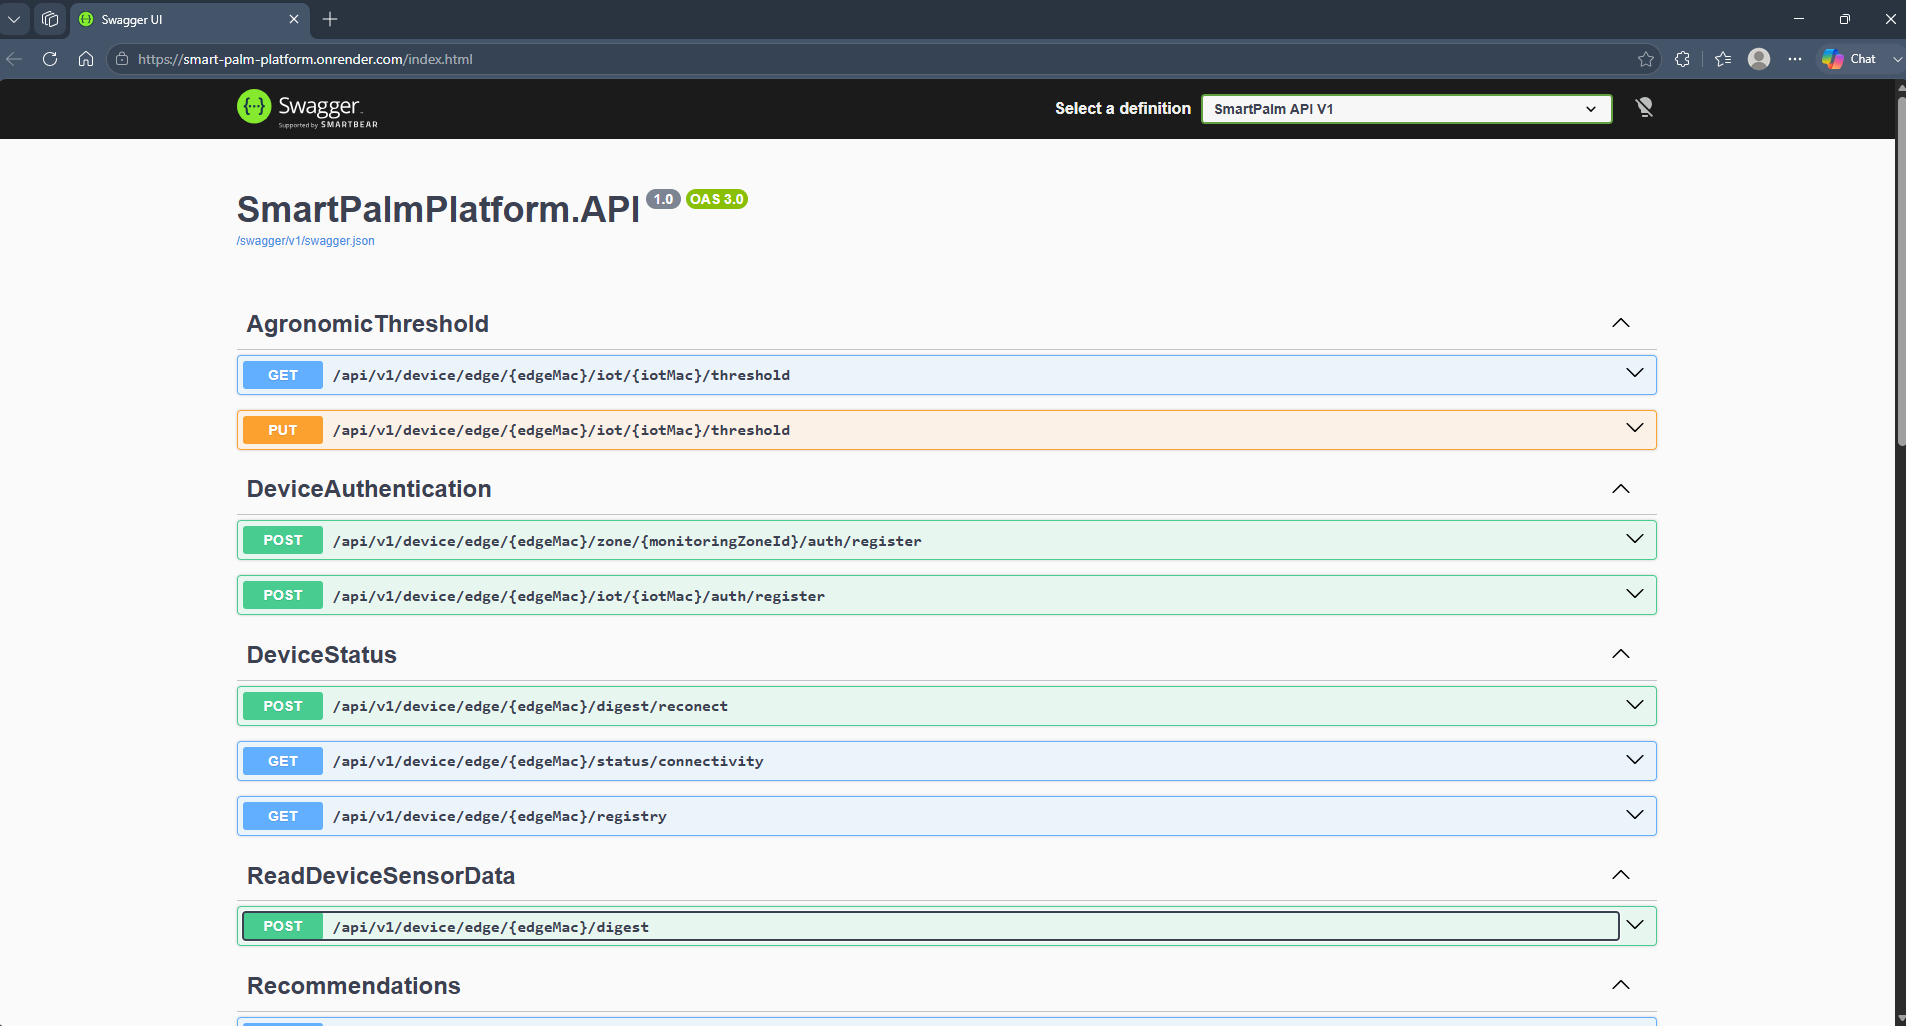
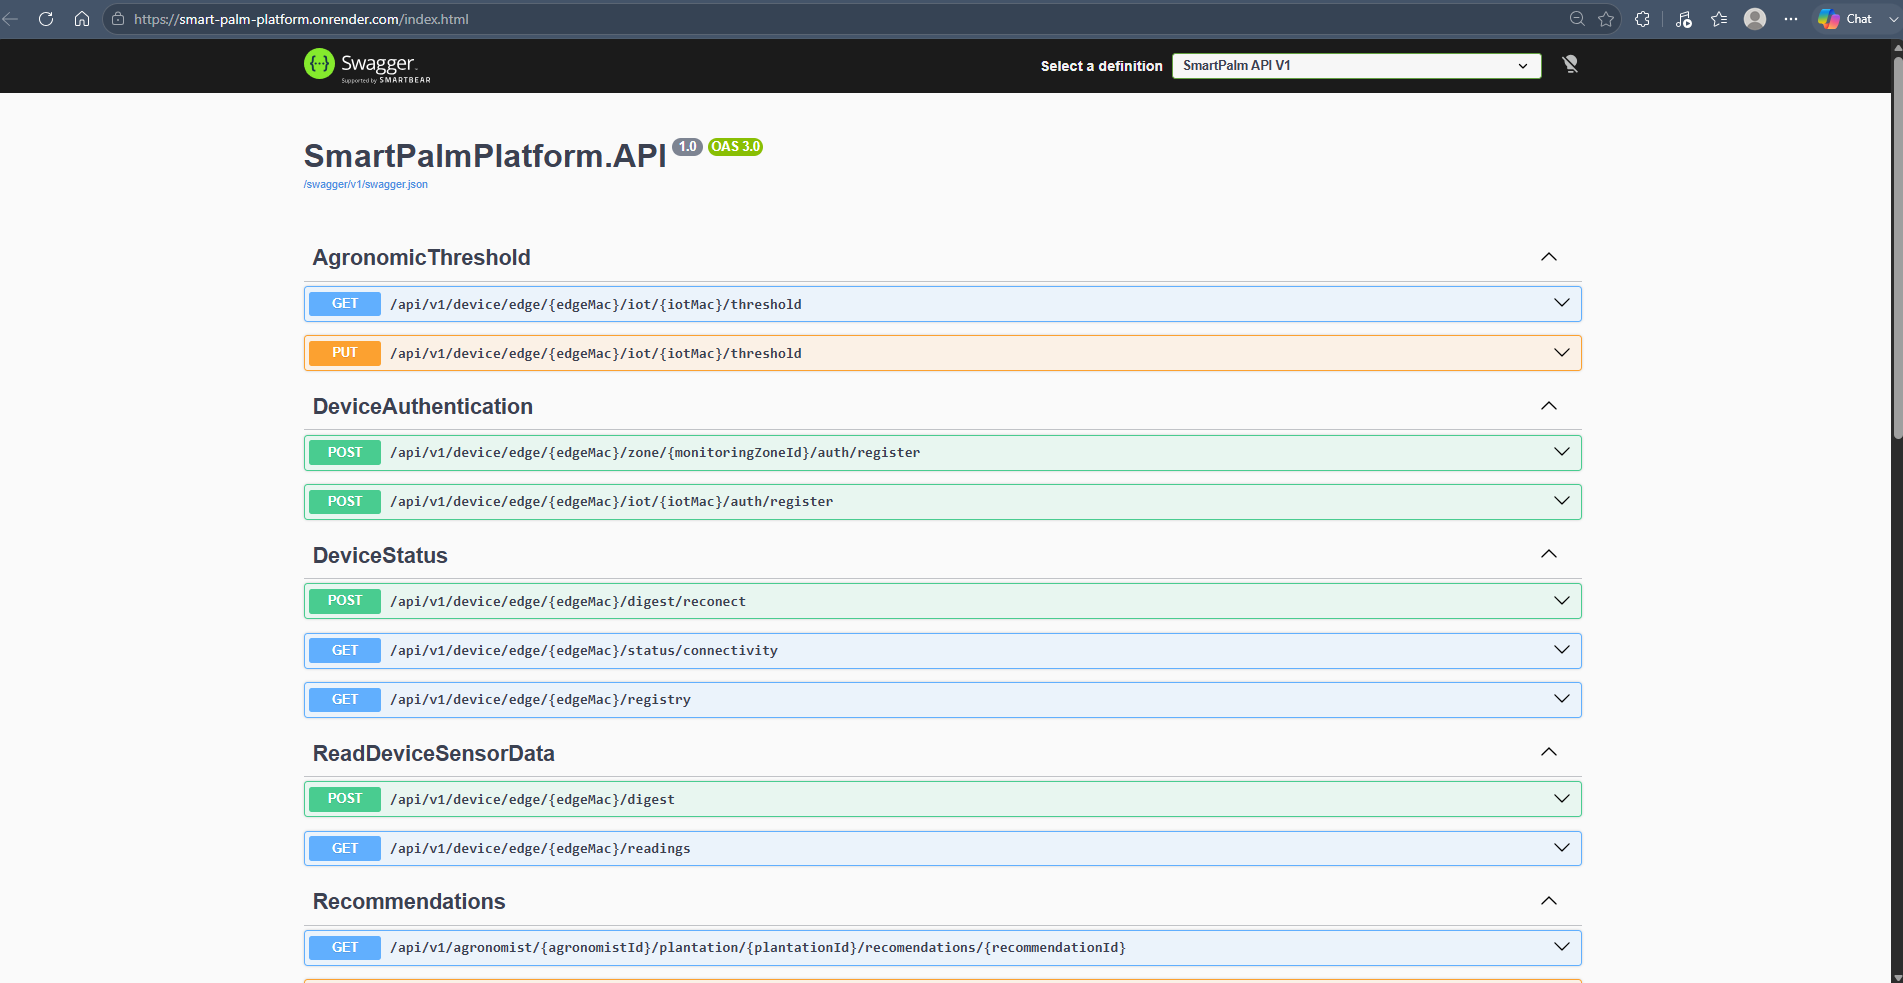
chore: update service documentation

diff --git a/report/45-service-documentation.md b/report/45-service-documentation.md
@@ -1,13 +1,77 @@
 #### 6.2.2.7. Services Documentation Evidence for Sprint Review
 
-| Module | Mock Resource | Main Actions | Sprint Relevance |
-|---|---|---|---|
-| Access | `/api/v1/auth/register`, `/api/v1/auth/login`, `/api/v1/users/me` | Simular registro, login y consulta de perfil. | Permite navegar la Web Application con usuarios representativos. |
-| Subscriptions | `/api/v1/subscriptions/plans`, `/api/v1/subscriptions/me`, `/api/v1/subscriptions/me/upgrade` | Consultar planes, suscripción actual y cambio de plan. | Soporta las historias de contratación y suscripción inicial. |
-| Plantations | `/api/v1/plantations`, `/api/v1/plantations/:id`, `/api/v1/plantations/:plantationId/zones` | Consultar plantaciones, detalle técnico y zonas de monitoreo. | Soporta dashboard, listado y detalle de plantaciones. |
-| Devices | `/api/v1/devices`, `/api/v1/devices/:id`, `/api/v1/devices/:id/zone` | Consultar dispositivos asociados a plantaciones y zonas. | Permite evidenciar el componente IoT dentro de la experiencia web. |
-| Sensor Readings | `/api/v1/readings` | Consultar lecturas simuladas por variable, zona, dispositivo o plantación. | Alimenta la visualización del estado del cultivo. |
-| Alerts | `/api/v1/alerts`, `/api/v1/alerts/:id`, `/api/v1/alerts/:id/acknowledge` | Consultar alertas activas, detalle de alerta y reconocimiento. | Permite priorizar condiciones críticas dentro de la Web Application. |
-| Recommendations | `/api/v1/recommendations`, `/api/v1/recommendations/:id/approve`, `/api/v1/recommendations/:id/publish` | Consultar, aprobar y publicar recomendaciones agronómicas. | Soporta la experiencia del agrónomo y del productor. |
-| Reports | `/api/v1/reports`, `/api/v1/reports/generate-draft`, `/api/v1/reports/:id/publish` | Consultar, generar y publicar reportes. | Permite mostrar documentación del estado del cultivo. |
-| Field Records | `/api/v1/inspections`, `/api/v1/interventions` | Consultar inspecciones e intervenciones simuladas. | Complementa la trazabilidad del seguimiento agronómico. |
+En este Sprint se implementó y desplegó el RESTful Web Service **SmartPalmPlatform.API** en Render, documentado con OpenAPI a través de Swagger UI. La URL base del servicio desplegado es `https://smart-palm-platform.onrender.com`. A continuación se detalla cada endpoint implementado por bounded context.
+
+---
+
+
+##### Evidencia de documentación desplegada
+
+A continuación se muestran capturas de la documentación Swagger del Web Service desplegado en Render:
+
+
+![alt text](../assets/img/deploy-evidence/backend1.png)
+
+<br>
+
+![alt text](../assets/img/deploy-evidence/backend3.png)
+
+<br>
+
+##### IoT Device Management
+
+**Device Authentication**
+
+| Acción | Verbo HTTP | Endpoint | Descripción | Parámetros | Response |
+|--------|-----------|----------|-------------|------------|----------|
+| Registrar Edge Node | `POST` | `/api/v1/device/edge/{edgeMac}/zone/{monitoringZoneId}/auth/register` | Registra un nodo edge en una zona de monitoreo | `edgeMac`: MAC del edge (path), `monitoringZoneId`: ID de zona (path), body: `{ "description": string }` | `201 Created` |
+| Registrar IoT Device | `POST` | `/api/v1/device/edge/{edgeMac}/iot/{iotMac}/auth/register` | Registra un dispositivo IoT sensor asociado a un edge | `edgeMac`: MAC del edge (path), `iotMac`: MAC del IoT (path), body: `{ "description": string }` | `201 Created` |
+
+**Device Status**
+
+| Acción | Verbo HTTP | Endpoint | Descripción | Parámetros | Response |
+|--------|-----------|----------|-------------|------------|----------|
+| Reconectar Edge | `POST` | `/api/v1/device/edge/{edgeMac}/digest/reconect` | Sincroniza el estado de un edge tras reconexión | `edgeMac`: MAC del edge (path), body: `EdgeSynchronizationResource` | `200 OK` |
+| Consultar conectividad | `GET` | `/api/v1/device/edge/{edgeMac}/status/connectivity` | Retorna el estado de conectividad actual del edge | `edgeMac`: MAC del edge (path) | `200 OK` con `{ "isConnected": bool, "lastSeenAt": datetime }` |
+| Consultar registro | `GET` | `/api/v1/device/edge/{edgeMac}/registry` | Retorna el registro completo del edge y sus dispositivos IoT asociados | `edgeMac`: MAC del edge (path) | `200 OK` con datos del edge y lista de IoT devices |
+
+---
+
+
+
+##### Sensor Data Processing
+
+**Telemetría**
+
+| Acción | Verbo HTTP | Endpoint | Descripción | Parámetros | Response |
+|--------|-----------|----------|-------------|------------|----------|
+| Ingestar lecturas | `POST` | `/api/v1/device/edge/{edgeMac}/digest` | Recibe un lote de lecturas de sensores desde el Edge API. Evalúa umbrales y persiste en base de datos. | `edgeMac`: MAC del edge (path), body: `{ "readings": [{ "sensorType": string, "measuredAt": datetime, "value": number }], "measuredAt": datetime }` | `200 OK` |
+| Consultar lecturas | `GET` | `/api/v1/device/edge/{edgeMac}/readings` | Retorna las lecturas de sensores registradas para un edge. Soporta filtro por rango de fechas. | `edgeMac`: MAC del edge (path), `from`: datetime (query, opcional), `to`: datetime (query, opcional) | `200 OK` con lista de `{ "id", "edgeDeviceMacAddress", "sensorType", "value", "unit", "measuredAt" }` |
+
+**Umbrales Agronómicos**
+
+| Acción | Verbo HTTP | Endpoint | Descripción | Parámetros | Response |
+|--------|-----------|----------|-------------|------------|----------|
+| Consultar umbrales | `GET` | `/api/v1/device/edge/{edgeMac}/iot/{iotMac}/threshold` | Retorna los umbrales agronómicos configurados para el par edge/IoT. Usado por el Edge API al arrancar para sincronizar alertas. | `edgeMac`: MAC del edge (path), `iotMac`: MAC del IoT (path) | `200 OK` con lista de `{ "edgeMac", "iotMac", "min", "max", "description", "type" }` |
+| Actualizar umbral | `PUT` | `/api/v1/device/edge/{edgeMac}/iot/{iotMac}/threshold` | Crea o actualiza el umbral agronómico para una variable de sensor en el par edge/IoT | `edgeMac`: MAC del edge (path), `iotMac`: MAC del IoT (path), body: `{ "sensorType": string, "min": number, "max": number, "description": string }` | `200 OK` |
+
+---
+
+##### Agronomic Recommendation
+
+| Acción | Verbo HTTP | Endpoint | Descripción | Parámetros | Response |
+|--------|-----------|----------|-------------|------------|----------|
+| Listar recomendaciones | `GET` | `/api/v1/agronomist/{agronomistId}/plantation/{plantationId}/recomendations` | Retorna las recomendaciones agronómicas de una plantación. Permite filtrar por estado. | `agronomistId`, `plantationId` (path), `status`: string (query, opcional) | `200 OK` con lista de recomendaciones |
+| Consultar recomendación | `GET` | `/api/v1/agronomist/{agronomistId}/plantation/{plantationId}/recomendations/{recommendationId}` | Retorna el detalle de una recomendación específica | `agronomistId`, `plantationId`, `recommendationId` (path) | `200 OK` con detalle de recomendación, o `404 Not Found` |
+| Crear recomendación | `POST` | `/api/v1/agronomist/{agronomistId}/plantation/{plantationId}/recomendations` | Crea una nueva recomendación agronómica en estado borrador | `agronomistId`, `plantationId` (path), body: `{ "content": string, "type": string }` | `200 OK` con recomendación creada |
+| Actualizar contenido | `PUT` | `/api/v1/agronomist/{agronomistId}/plantation/{plantationId}/recomendations/{recommendationId}` | Actualiza el contenido de una recomendación existente | `agronomistId`, `plantationId`, `recommendationId` (path), body: `{ "content": string }` | `200 OK` |
+| Aprobar recomendación | `PATCH` | `/api/v1/agronomist/{agronomistId}/plantation/{plantationId}/recomendations/{recommendationId}/aproval` | Cambia el estado de una recomendación a aprobado | `agronomistId`, `plantationId`, `recommendationId` (path) | `200 OK` |
+| Publicar recomendación | `PATCH` | `/api/v1/agronomist/{agronomistId}/plantation/{plantationId}/recomendations/{recommendationId}/publishing` | Publica la recomendación para que sea visible al productor | `agronomistId`, `plantationId`, `recommendationId` (path) | `200 OK` |
+| Registrar intervención | `POST` | `/api/v1/agronomist/{agronomistId}/plantation/{plantationId}/recomendations/{recommendationId}/interventions` | Registra una intervención agronómica ejecutada en campo | `agronomistId`, `plantationId`, `recommendationId` (path), body: `{ "description": string, "performedBy": string, "executionDate": datetime }` | `200 OK` |
+| Listar intervenciones | `GET` | `/api/v1/agronomist/{agronomistId}/plantation/{plantationId}/recomendations/{recommendationId}/interventions` | Retorna las intervenciones registradas para una recomendación | `agronomistId`, `plantationId`, `recommendationId` (path) | `200 OK` con lista de intervenciones |
+
+---
+
+
+<br>
+